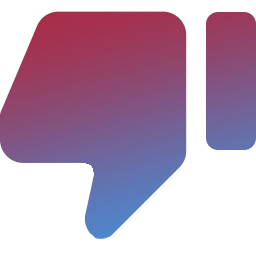
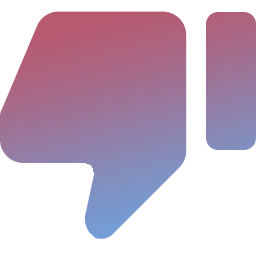
[FE] Image & Color anpassungen

diff --git a/container/Polls/VoteTypes/Thumb.js b/container/Polls/VoteTypes/Thumb.js
@@ -47,7 +47,7 @@ export default class ThumbType extends React.Component {
                     <View style={[thumb.bar,]}>
                          <LinearGradient
                                 style={[thumb.inner, { width: likePercent + "%" }]}
-                                colors={['#ae4768', '#3386cd']}
+                                colors={['#b8596e', '#739dd5']}
                                 start={{ x: 0.0, y: 0.0 }}
                                 end={{ x: 0.9, y: 0.1 }}
                             />
